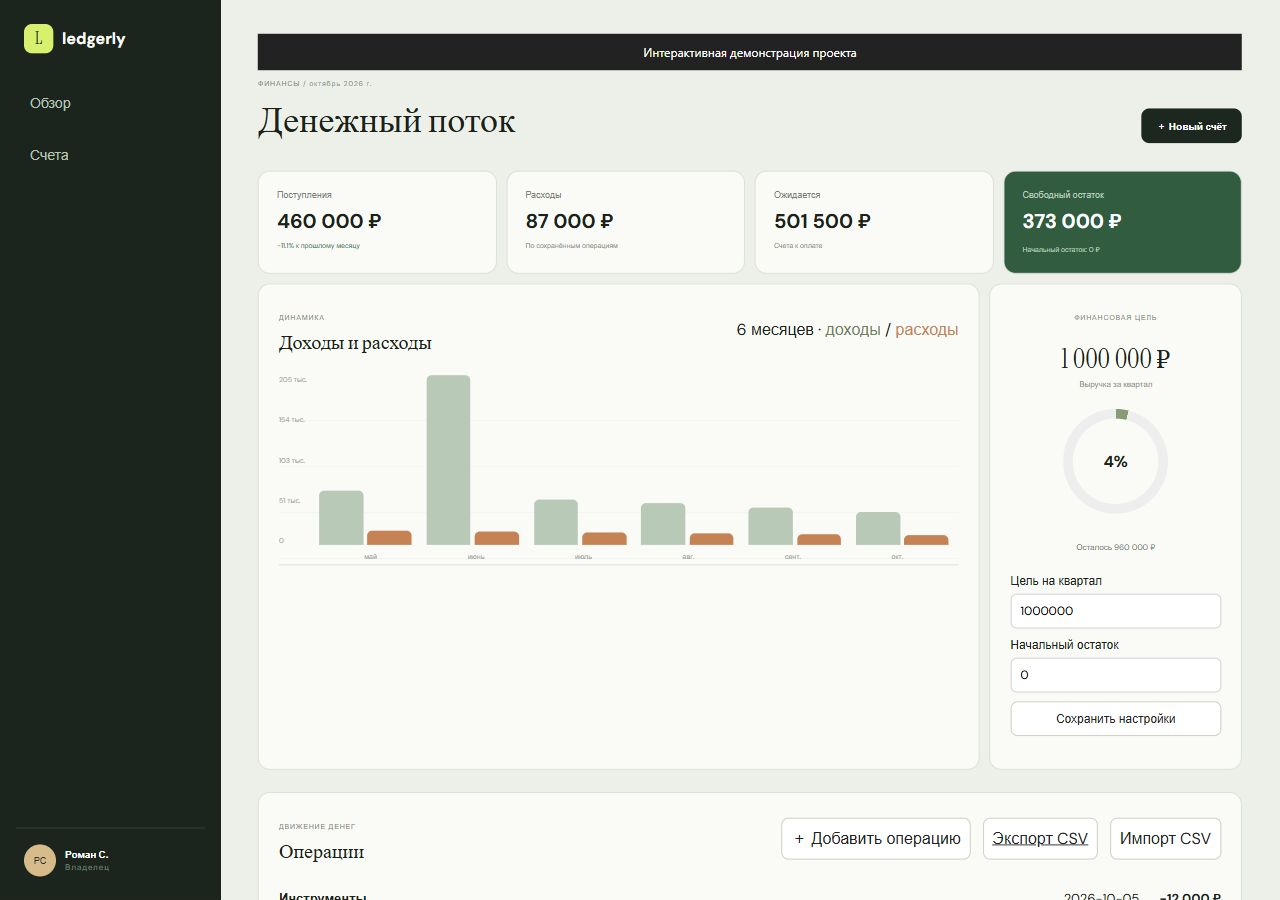
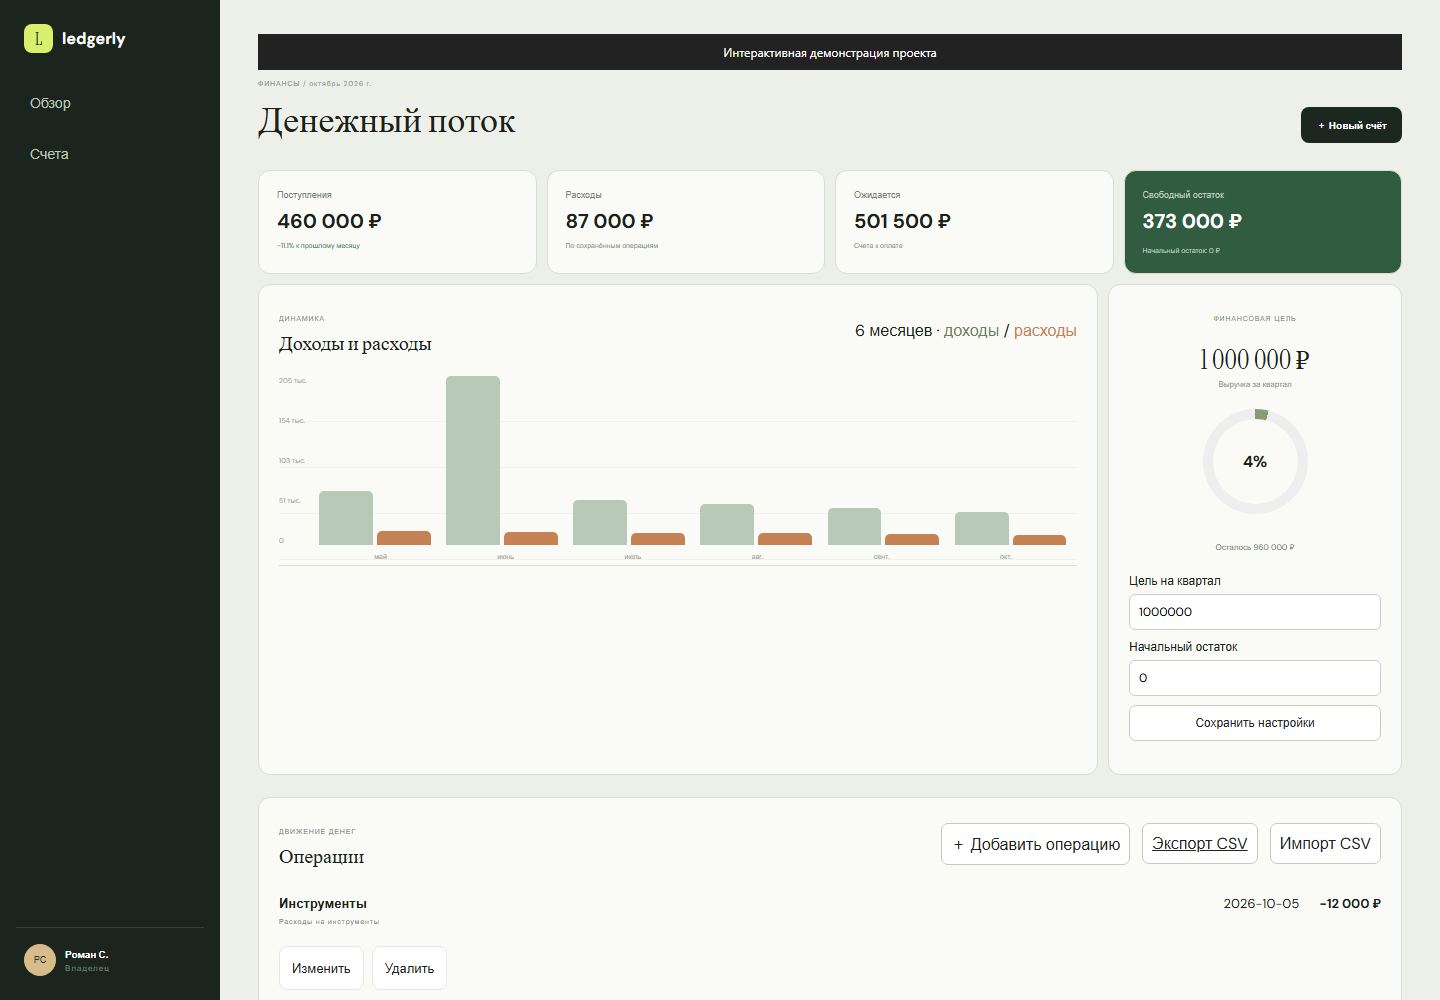
Refresh actual local desktop and mobile interface captures

diff --git a/README.md b/README.md
@@ -3,11 +3,13 @@
 Track invoices, dated income and expenses, and calculate a cash summary from stored records.
 
 
-![Desktop interface](docs/desktop.png)
+![Current local desktop interface](docs/desktop.png)
 
-<img src="docs/mobile.png" width="320" alt="Mobile interface">
+<img src="docs/mobile.png" width="320" alt="Current local mobile interface">
 
-[Short interaction recording](docs/demo.gif)
+Screenshots were captured from the running local application with its bundled fixture data.
+
+[Earlier sandbox interaction recording](docs/demo.gif)
 
 ## Implemented
 
